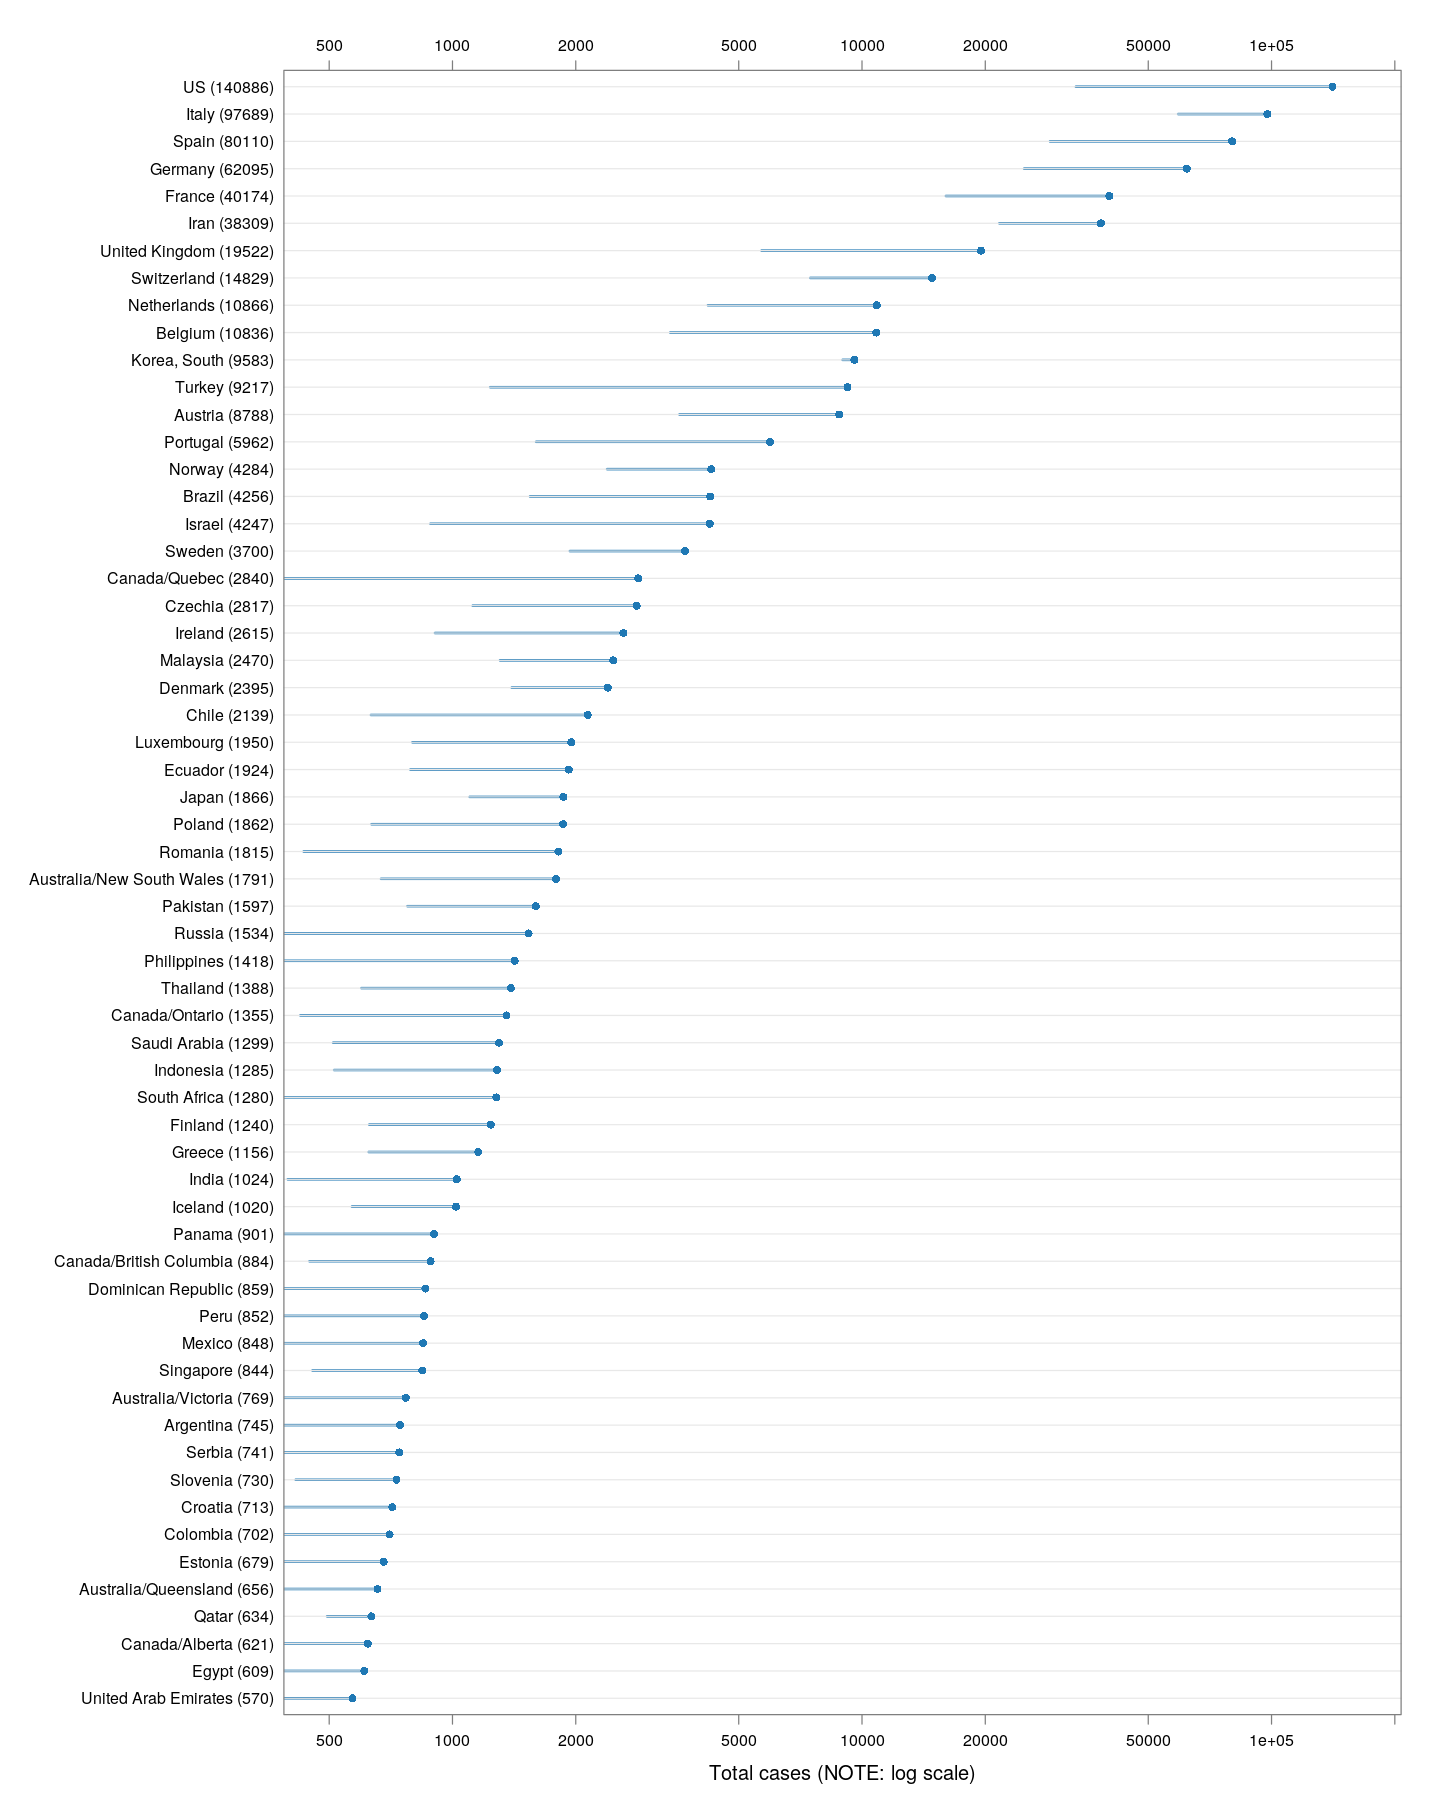
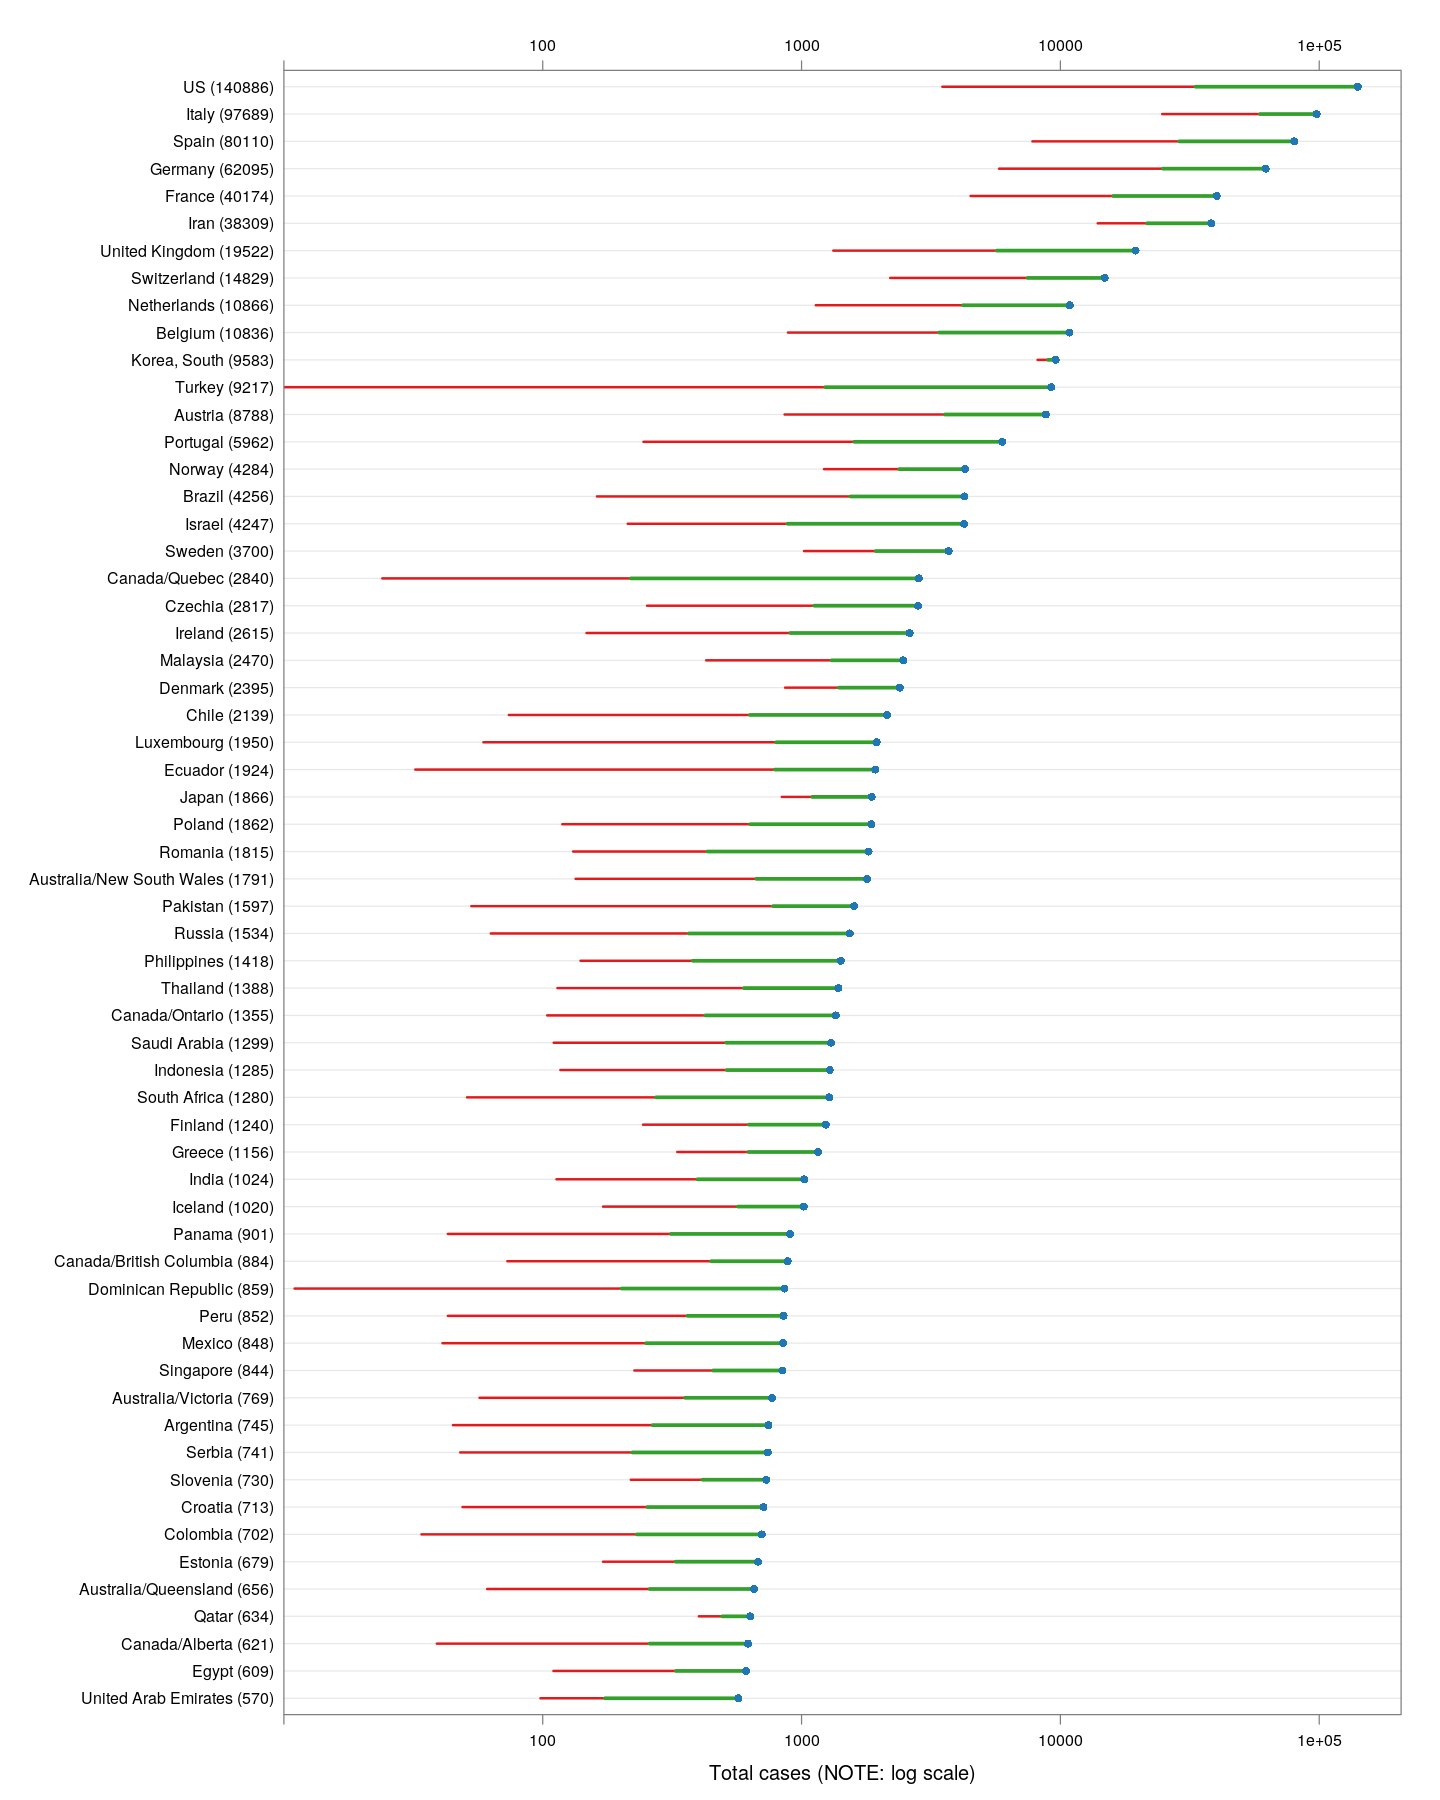
more detailed current count plot

diff --git a/covid-19/doubling.md b/covid-19/doubling.md
@@ -121,25 +121,29 @@ xcovid.row <- extractCasesTS(covid.row)
 Outside China, which countries are the worst affected in terms of the
 latest absolute numbers so far? The following plot shows the latest
 counts, and also shows how much the counts have increased in the last
-week. These are on a logarithmic scale, which means that the one-week
-increase is a measure of the percentage increase; larger means faster
-rate of growth.
+week, and the week before that. These are on a logarithmic scale,
+which means that the one-week increases are a measure of the
+percentage increase; larger means faster rate of growth.
 
 
 
 ```r
 total.row <- apply(xcovid.row, 2, tail, 1)
 total.row.1weekago <- apply(xcovid.row, 2, function(x) tail(x, 8)[1])
+total.row.2weekago <- apply(xcovid.row, 2, function(x) tail(x, 15)[1])
 torder <- tail(order(total.row), 60)
-dotplot(total.row[torder], total.1weekago = total.row.1weekago[torder],
+dotplot(total.row[torder], total.1 = total.row.1weekago[torder], total.2 = total.row.2weekago[torder],
         xlab = "Total cases (NOTE: log scale)",
-        panel = function(x, y, ..., total.1weekago) {
-            panel.segments(x, y, log10(total.1weekago), y,
-                           col = trellis.par.get("plot.line")$col, lwd = 2)
-            panel.dotplot(x, y, ...)
+        xlim = c(10, NA),
+        panel = function(x, y, ..., total.1, total.2, col) {
+            col <- trellis.par.get("superpose.line")$col
+            dot.line <- trellis.par.get("dot.line")
+            panel.abline(h = unique(y), col = dot.line$col, lwd = dot.line$lwd)
+            panel.segments(log10(total.2), y, log10(total.1), y, col = col[3], lwd = 2)
+            panel.segments(log10(total.1), y, x, y, col = col[2], lwd = 3)
+            panel.points(x, y, pch = 16, col = col[1])
         },
-        scales = list(x = list(alternating = 3, log = 10,
-                               equispaced.log = FALSE)))
+        scales = list(x = list(alternating = 3, log = 10, equispaced.log = FALSE)))
 ```
 
 ![plot of chunk unnamed-chunk-4](figures/doubling-unnamed-chunk-4-1.png)
